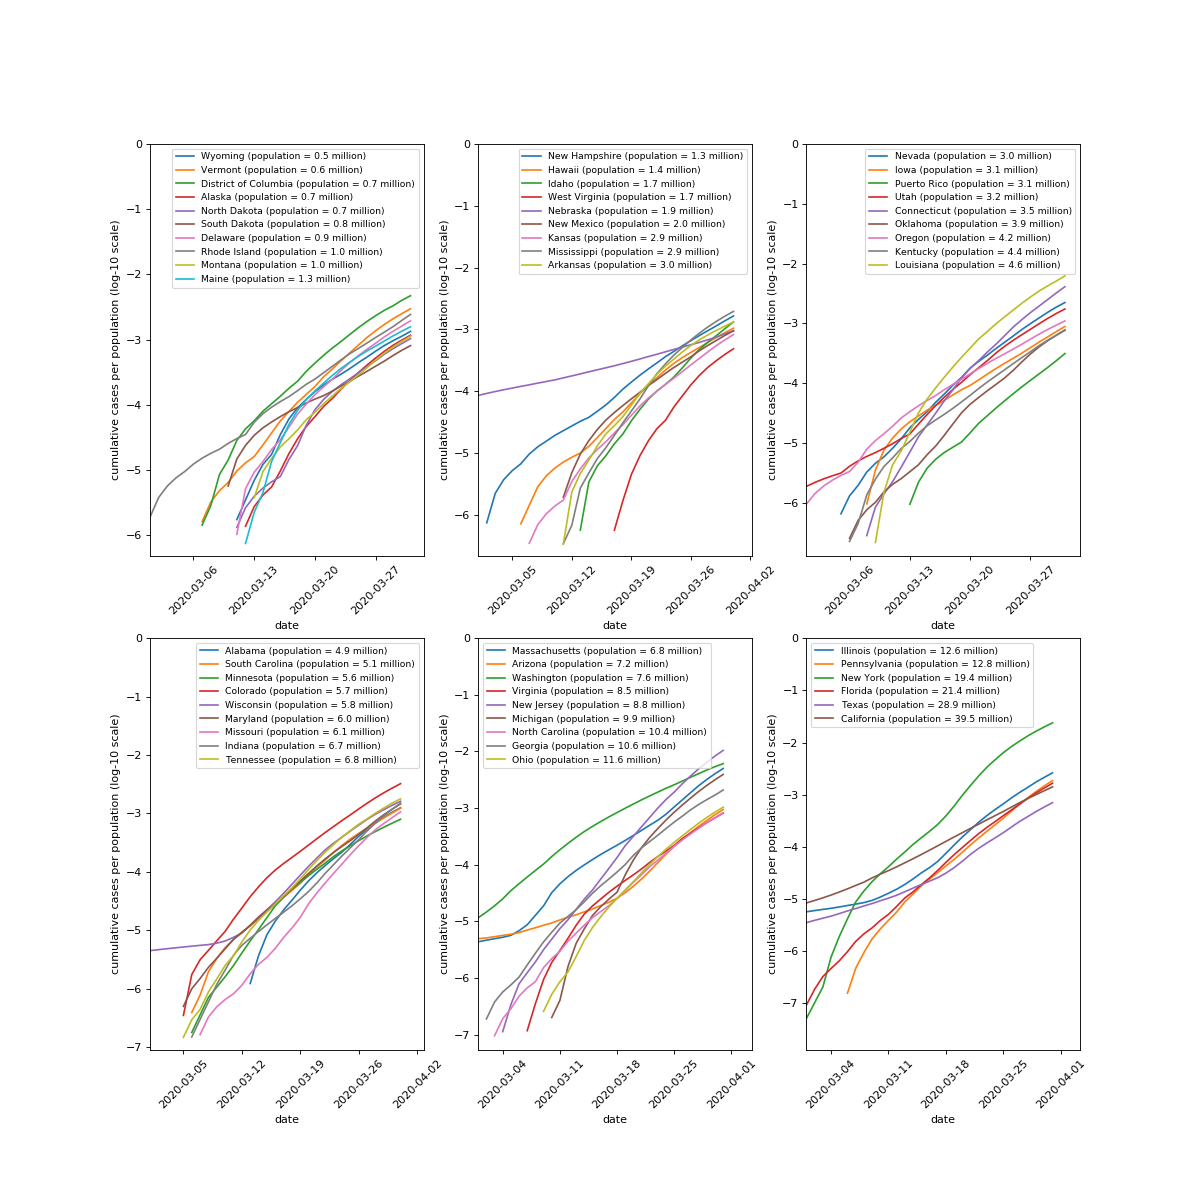
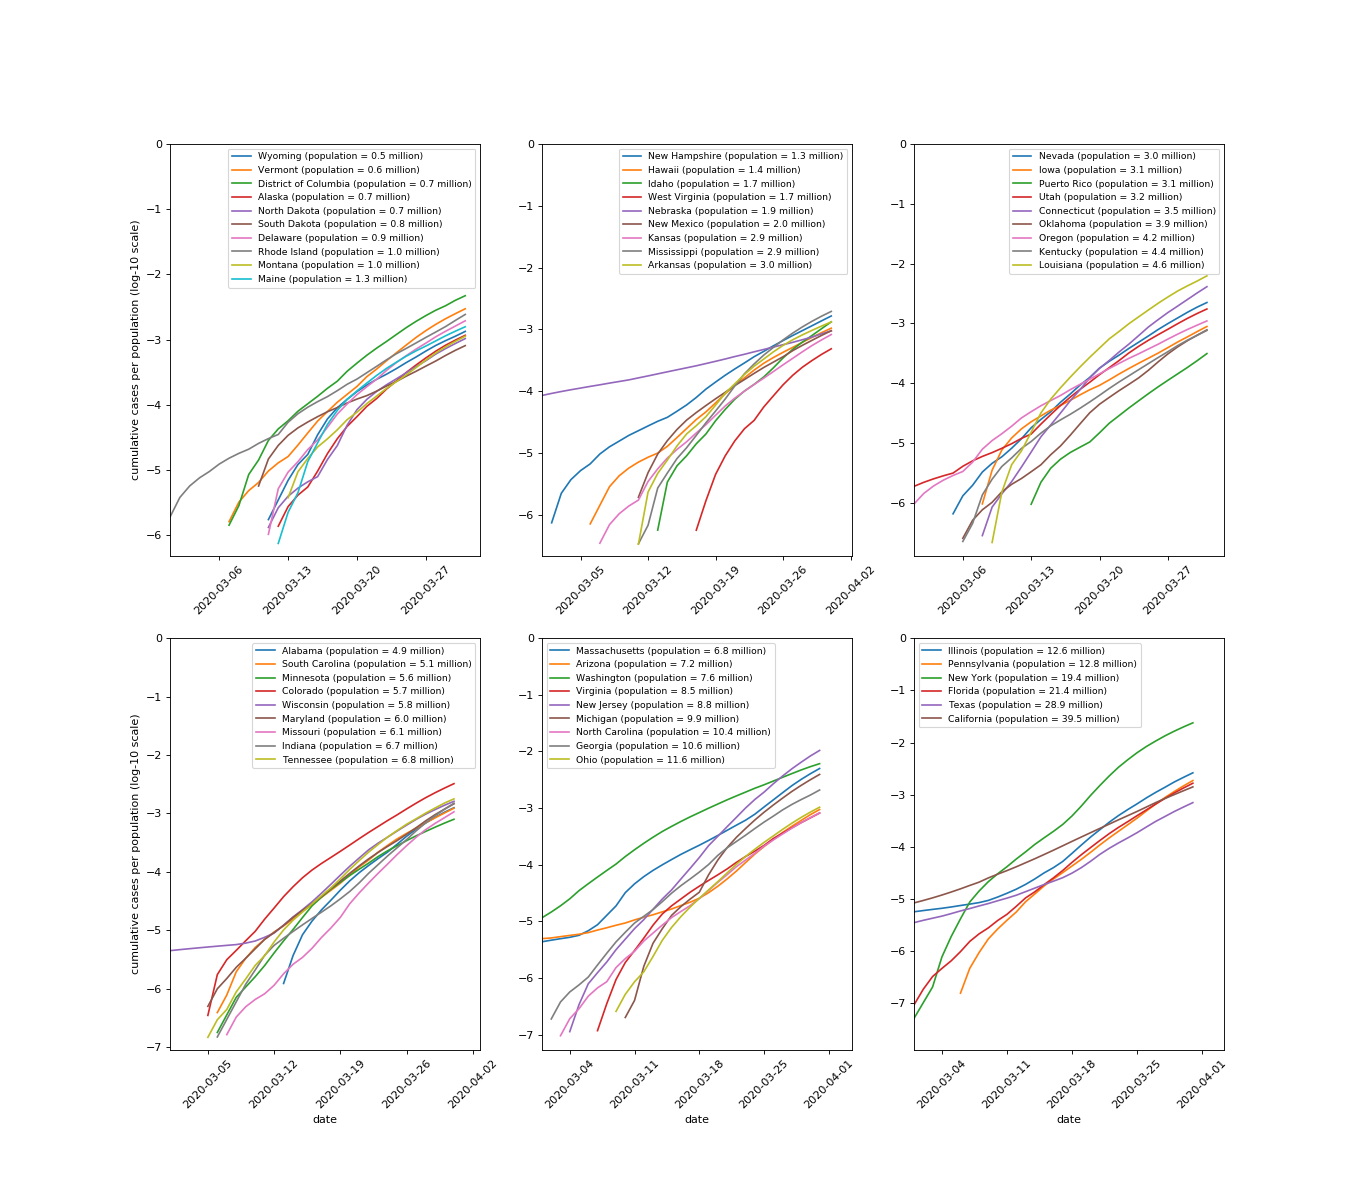
cleaned up labels

diff --git a/mkfigs.py b/mkfigs.py
@@ -50,7 +50,7 @@ for norm in [False, True]:
             labelstring="cumulative " + interest + norm*" per population" +log_scale*" (log-10 scale)"
             subind=1
             these_states=[] #variable keeps state names by plot for the legend
-            plt.figure(figsize=(15, 15), dpi= 80, facecolor='w', edgecolor='k')
+            plt.figure(figsize=(17, 15), dpi= 80, facecolor='w', edgecolor='k')
             most=0
             for i in range(len(state_names)):
                 #if starting new subgraph, set the subplot
@@ -85,8 +85,10 @@ for norm in [False, True]:
                 
                 if ((i%(statesper) == 0) & (i!=0)):
                     plt.legend(np.asarray(these_states),fontsize='small')
-                    plt.xlabel("date")
-                    plt.ylabel(labelstring)
+                    if (subind>np.ceil(n/2)):
+                        plt.xlabel("date")
+                    if (subind%np.ceil(n/2)==1):
+                        plt.ylabel(labelstring)
                     plt.xticks(rotation=45)
                     #plt.ylim((0,ylimit))
                     these_states=[]
@@ -95,9 +97,11 @@ for norm in [False, True]:
                 
             if len(these_states)!=0:
                     plt.legend(np.asarray(these_states),fontsize='small')
-                    plt.xlabel("date")
                     plt.xticks(rotation=45)
-                    plt.ylabel(labelstring)
+                    if (subind>np.ceil(n/2)):
+                        plt.xlabel("date")
+                    if (subind%np.ceil(n/2)==1):
+                        plt.ylabel(labelstring)
                     #plt.ylim((0,ylimit))
                     
             for i in range(n):
